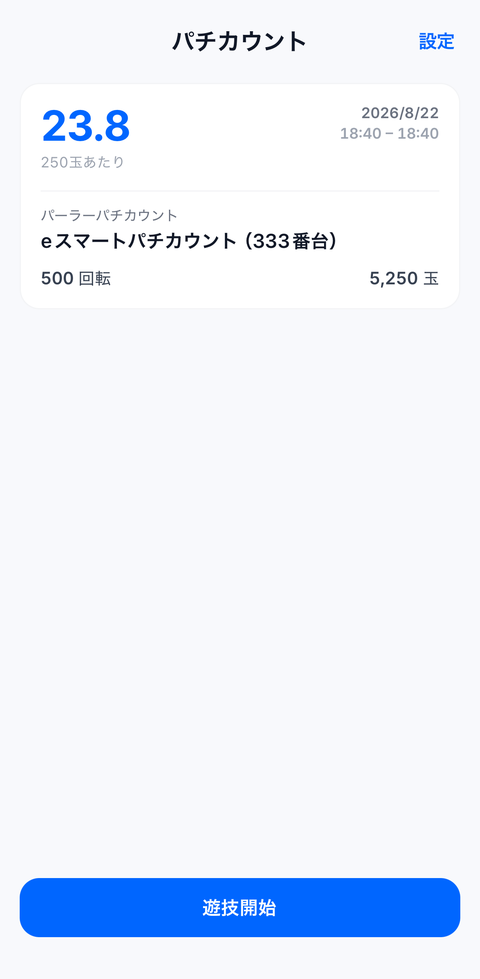
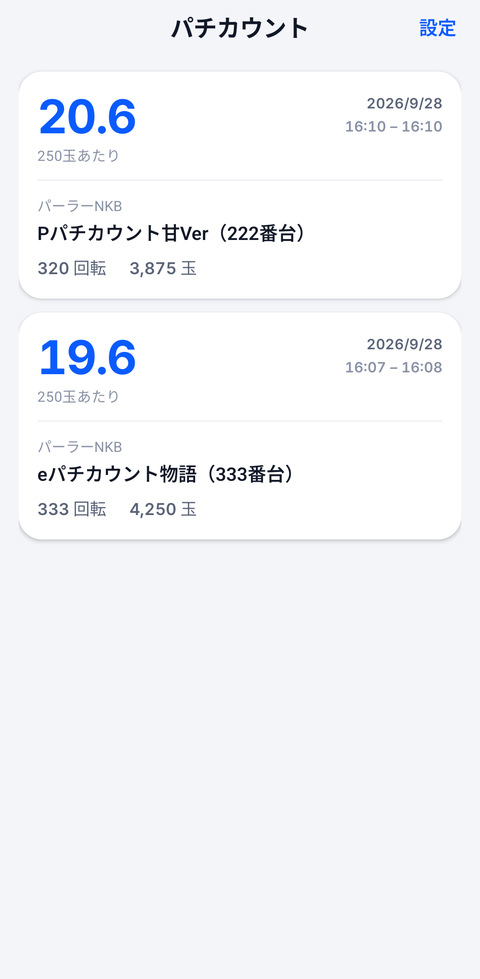
パチカウントの案内ページを 1.3.1 に合わせる
画面の画像4枚を新しいデザインのものに差し替え、できること・最新版・更新履歴を直す

diff --git a/pachicount/index.html b/pachicount/index.html
@@ -36,6 +36,9 @@
     <li>大当たりで台の回転数が戻っても、累積したまま記録を続ける</li>
     <li>記録の一覧・詳細・編集・削除・共有</li>
     <li>ボタンの数値を自分で決める</li>
+    <li>遊技の途中でアプリが終了しても、次に開いたときに続きから再開する</li>
+    <li>ライト／ダーク表示の切り替え</li>
+    <li>すべての記録の書き出しと取り込み</li>
   </ul>
 
   <h2>アプリの情報</h2>
@@ -46,11 +49,13 @@
     <div class="row"><dt>対応</dt><dd>iPhone / Android</dd></div>
     <div class="row"><dt>対象年齢</dt><dd>18歳以上</dd></div>
     <div class="row"><dt>記録の保存先</dt><dd>端末の中だけ</dd></div>
-    <div class="row"><dt>最新版</dt><dd>1.2.1</dd></div>
+    <div class="row"><dt>最新版</dt><dd>1.3.1</dd></div>
   </dl>
 
   <h2>更新履歴</h2>
   <ul class="log">
+    <li><span class="ver">1.3.1</span>遊技の途中で終了しても続きから再開できるようにし、記録の書き出しと取り込みを追加しました<span class="date">2026-10-01</span></li>
+    <li><span class="ver">1.3.0</span>デザインを新しくし、ダーク表示に対応しました<span class="date">2026-09-28</span></li>
     <li><span class="ver">1.2.0</span>画面のデザインを新しくしました<span class="date">2026-08-23</span></li>
     <li><span class="ver">1.0.0</span>公開しました<span class="date">2026-08-01</span></li>
   </ul>
